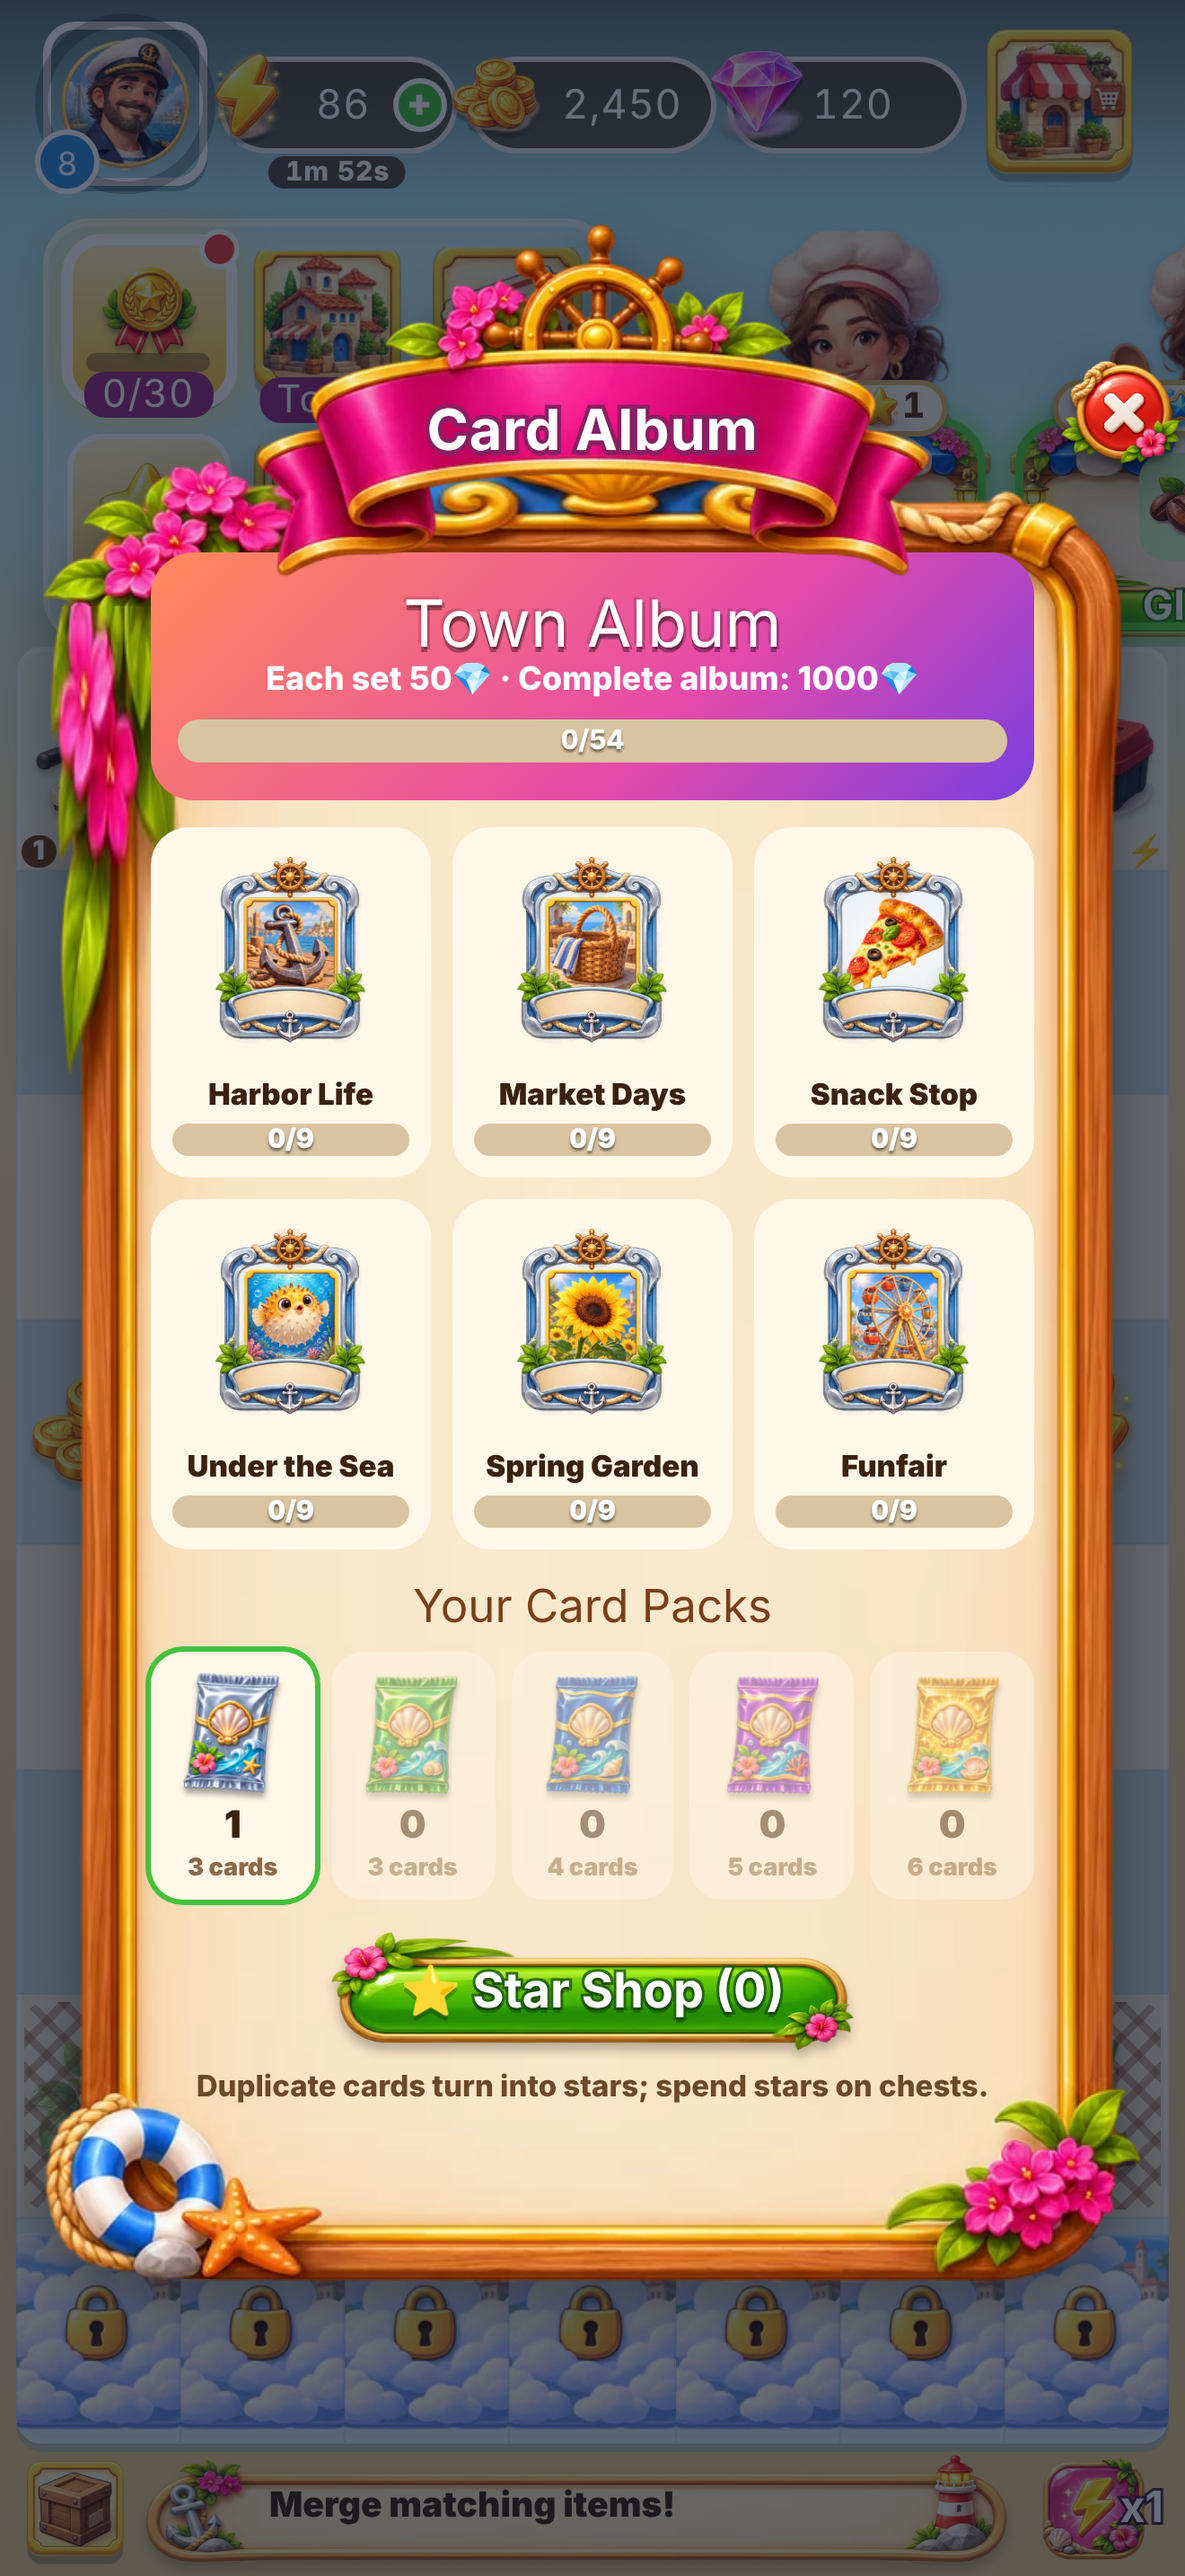
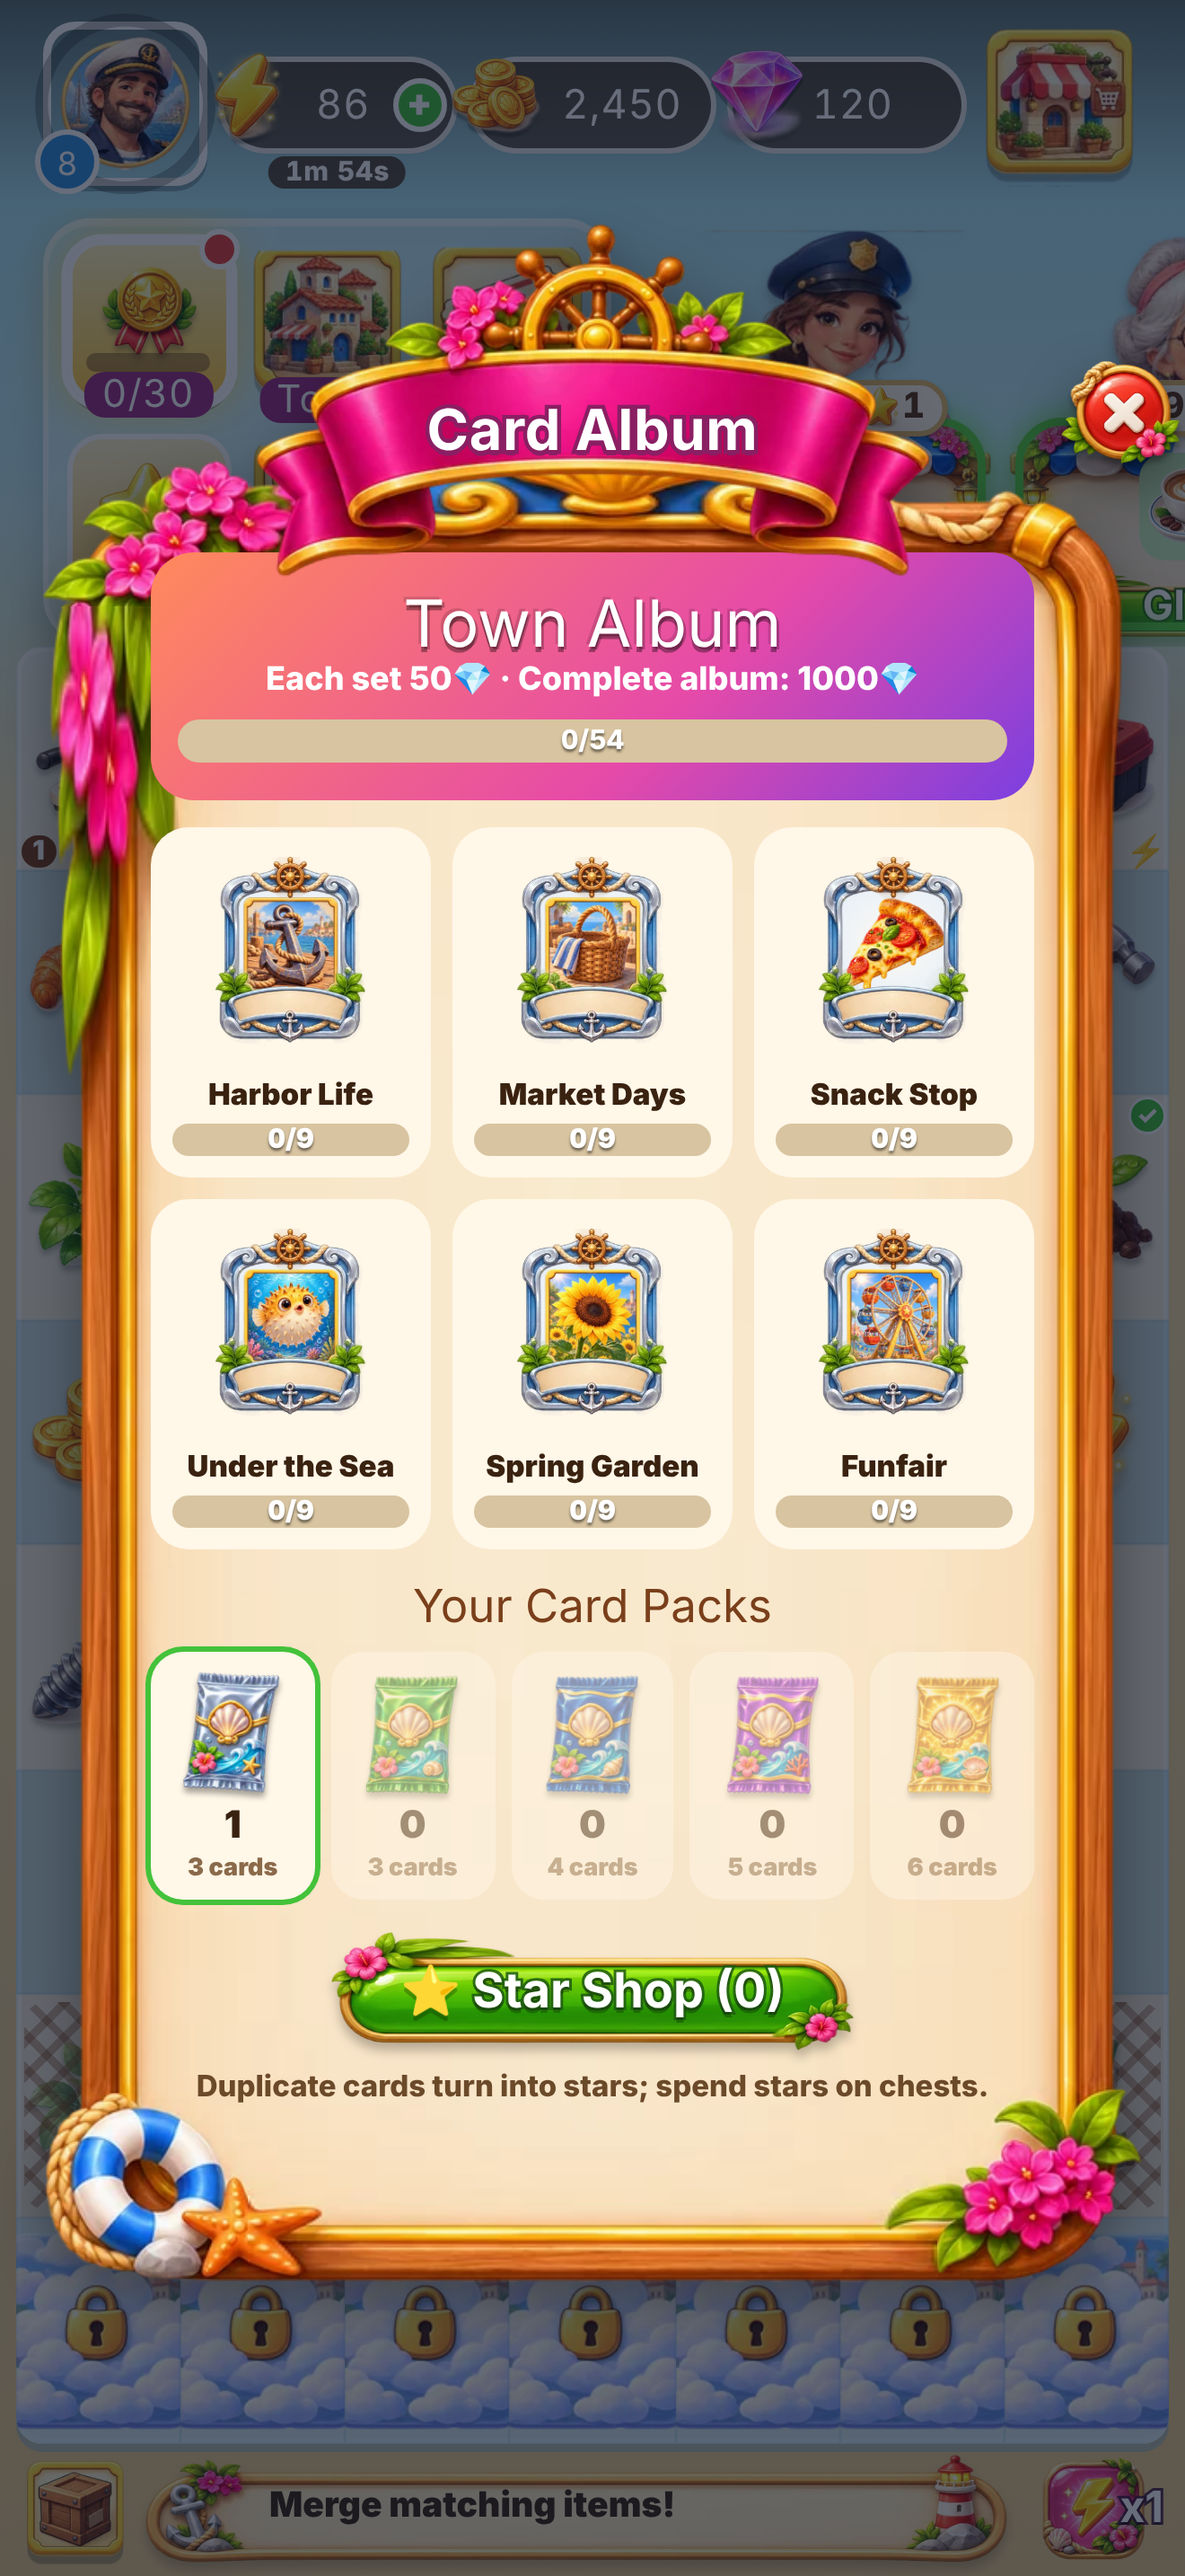
Notch/Dynamic Island safe area, in-game store screenshots
Claude-Session: https://claude.ai/code/session_01HHM7cvPhTVxDcmAPhM2cfj

diff --git a/www/index.html b/www/index.html
@@ -603,6 +603,10 @@ img.ri{display:inline-block;width:1.35em;height:1.35em;vertical-align:-.35em}
 #loading .logo{transform:none}
 #loading .logoimg{width:min(92vw,400px);display:block;margin:0 auto}
 #loading .logo small{margin-top:2px!important}
+/* çentik / Dynamic Island: üst çubuk güvenli bölgeye kadar uzar, ekranlar onun altından başlar */
+#hud{padding-top:calc(8px + env(safe-area-inset-top,0px))!important}
+.screen{top:env(safe-area-inset-top,0px)!important}
+#toast{top:calc(76px + env(safe-area-inset-top,0px))}
 </style>
 
 <div id="app">
